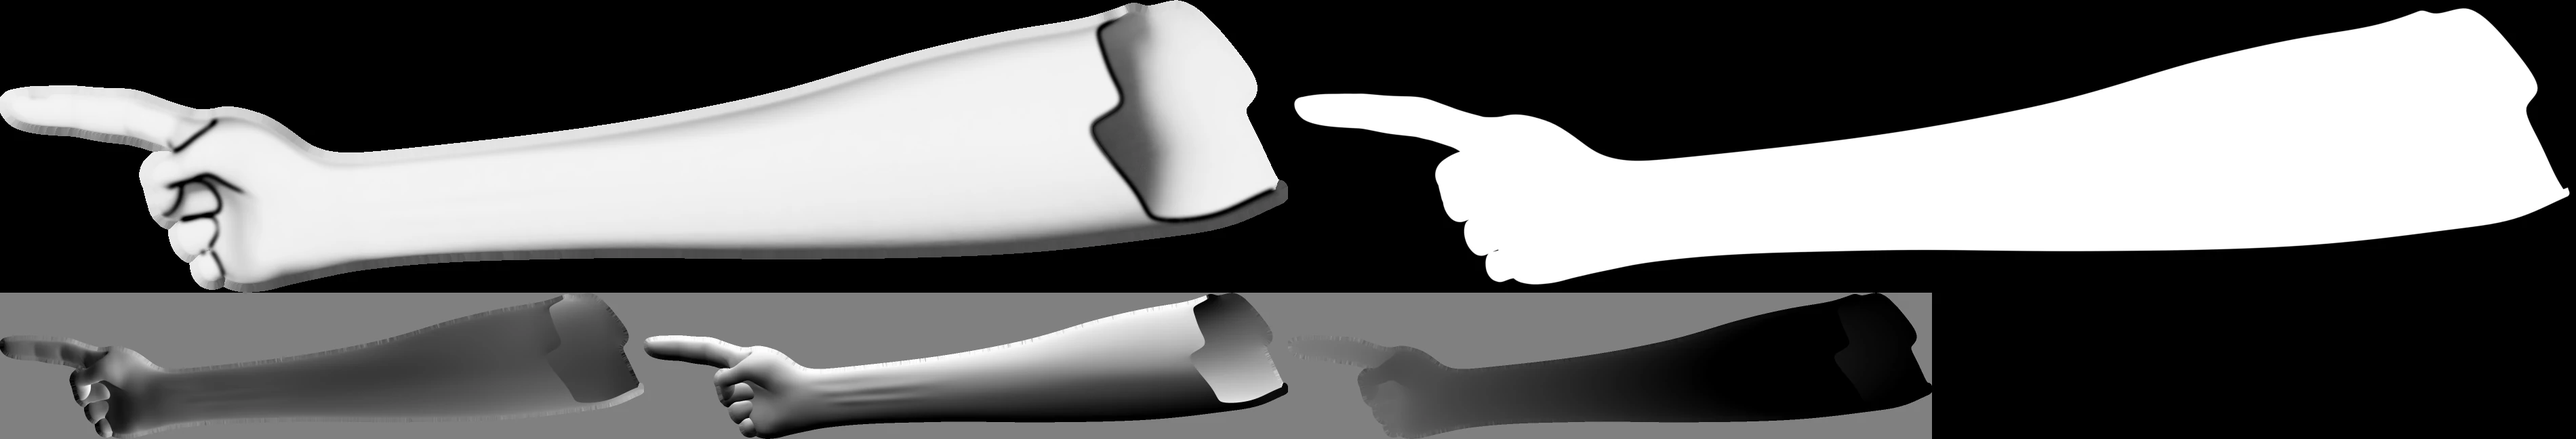
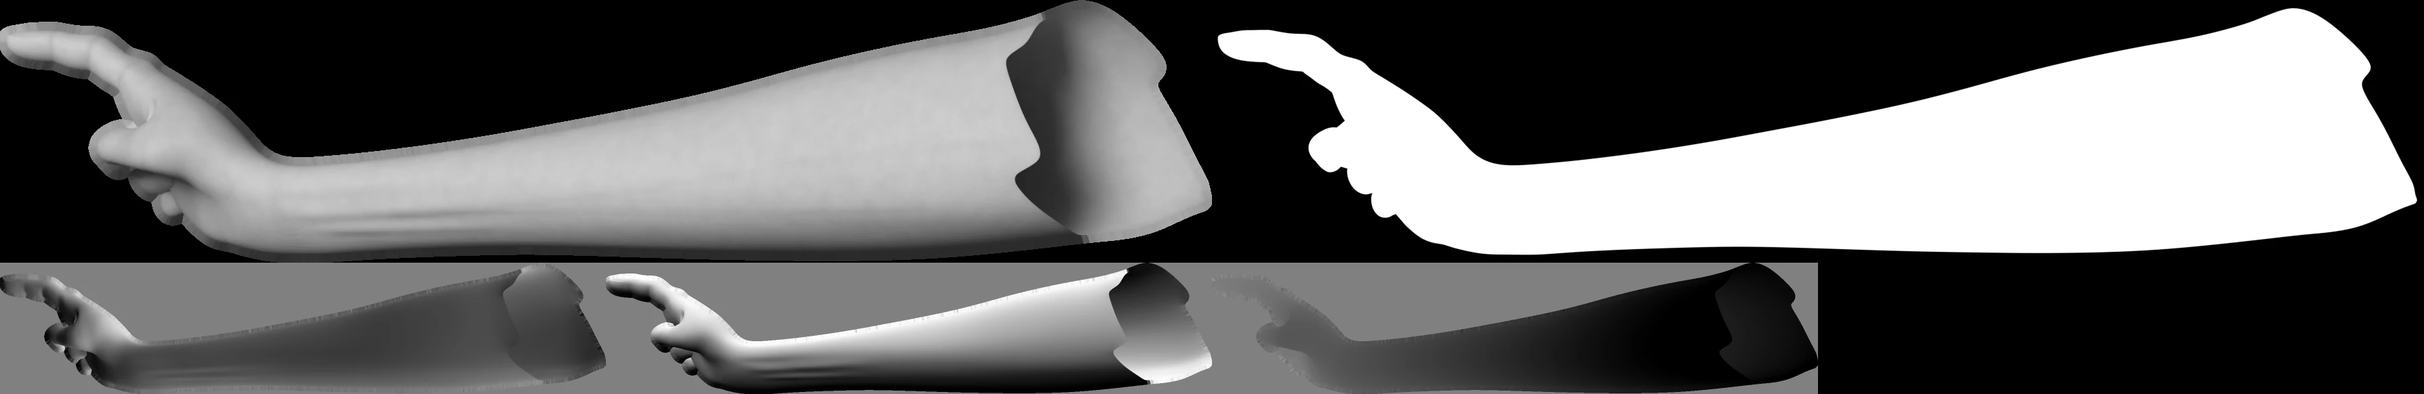
Hände: neue Zeigehand ohne Kontur (Blender), Finger über der Gehäusekante mit Kontaktschatten, Rückzug nach dem Tipp, Hochformat-Kamera mit Rand

diff --git a/src/components/landing/scenes/ende/hand.js b/src/components/landing/scenes/ende/hand.js
@@ -122,7 +122,9 @@ vec2 holdTone(vec2 C){
   if (al < .04) return vec2(0.);
   float zmm = SH(4, C) * 200. - 100.;
   float sdf = sdfRR(C, uPhone, uPR.x);
-  bool front = sdf < 4. && zmm < 1.5;
+  // Finger rechts legen sich 4 bis 8 px über die Gehäusekante: vorn, mit weichem Kontaktschatten am Gehäuse
+  bool fing = C.x > 800. && sdf < 4.;
+  bool front = (sdf < 4. && zmm < 1.5) || fing;
   float L = SH(0, C);
   L = cl(.5 + (pow(L, ${GAM.toFixed(2)}) - .5) * ${CON.toFixed(2)});
   float nx = SH(2, C) * 2. - 1.;
@@ -130,6 +132,7 @@ vec2 holdTone(vec2 C){
   float nz = sqrt(max(0., 1. - nx * nx - ny * ny));
   float lf = lightF(C);
   float v = L * (.62 + .5 * lf);
+  if (fing) v *= .5 + .5 * ss((sdf + 9.) / 11.);
   v += ${RIM.toFixed(2)} * max(0., nx * .85 + ny * .05 + nz * .15) * (.5 + .5 * L);
   if (uPR.w > 0.) {
     vec3 l = vec3(uLight.x - C.x, -(uLight.y - C.y), 170. + zmm * (300. / 71.6));
@@ -141,11 +144,13 @@ vec2 holdTone(vec2 C){
   }
   float e = ${EDW.toFixed(1)};
   float eA = min(min(SH(1, C - vec2(e, 0.)), SH(1, C + vec2(e, 0.))), min(SH(1, C - vec2(0., e)), SH(1, C + vec2(0., e))));
-  bool edge = eA < .5 && abs(sdf) >= 7.;
-  float cov = ss((al - .02) / .25) * ss((uPR.z - C.y) / 90.);
+  bool edge = eA < .5 && abs(sdf) >= 7. && !fing;
+  float cov = ss((al - .02) / .25) * ss((uPR.z - C.y) / 140.);
   float sdS = sdfRR(C, uScreen, uPR.y);
+  // Finger bleiben auf Gehäuse und Rand, nie auf dem Glas
+  if (fing && sdS < -1.) return vec2(0.);
   // weicher Übergang statt harter Kante am Glasrand: Ton und Tinte gehen über 18 px ineinander über
-  float gk = front ? ss(-sdS / 18.) : 0.;
+  float gk = front ? ss(-sdS / 10.) : 0.;
   float vo = v;
   if (edge) vo = max(vo, ${EDV.toFixed(1)} * lf * al);
   float tone = vo * cov;
@@ -165,7 +170,7 @@ vec2 pointTone(vec2 C, bool full){
   if (uPS.y <= 0.) return vec2(0.);
   vec2 d = C - uTipU.xy;
   float dist = length(d);
-  float gk = ss(-sdfRR(C, uScreen, uPR.y) / 18.);
+  float gk = ss(-sdfRR(C, uScreen, uPR.y) / 10.);
   // auf dem Glas bleibt die Hand bis zum Handgelenk deckend, der Arm läuft danach schneller aus
   float fade = mix(cl(1. - (dist - 300.) / 420.), cl(1. - (dist - 300.) / 140.), gk);
   if (fade <= 0.) return vec2(0.);
@@ -181,12 +186,10 @@ vec2 pointTone(vec2 C, bool full){
   float v = L * (.62 + .5 * lf);
   float e = ${EDW.toFixed(1)} / uPS.x;
   float eA = min(min(SP(1, ab - vec2(e, 0.)), SP(1, ab + vec2(e, 0.))), min(SP(1, ab - vec2(0., e)), SP(1, ab + vec2(0., e))));
-  bool edge = eA < .5;
+  // keine Kontur: die Hand ist reine Fläche aus Ton, am Rand nur die weiche Silhouette
   float vo = v;
-  if (edge) vo = max(vo, ${EDV.toFixed(1)} * lf * al);
   float tn = .04 + .86 * pow(cl(v), 1.35);
-  float vd = pow(1. - tn, .45);
-  if (edge) vd = max(vd, .95);
+  float vd = pow(1. - tn, .7);
   return vec2(mix(vo, vd, gk) * cov, cov);
 }
 
@@ -226,7 +229,7 @@ vec2 pSprite(vec2 S){
 float pointSil(vec2 S){
   if (uPS.y <= 0.) return 0.;
   float dist = length(S - uTipU.xy);
-  float gk = ss(-sdfRR(S, uScreen, uPR.y) / 18.);
+  float gk = ss(-sdfRR(S, uScreen, uPR.y) / 10.);
   float fade = mix(cl(1. - (dist - 300.) / 420.), cl(1. - (dist - 300.) / 140.), gk);
   if (fade <= 0.) return 0.;
   vec2 ab = pSprite(S);
@@ -259,7 +262,7 @@ void main(){
   ivec2 tc = cell - uCell0;
   float tone = 0.;
   if (tc.x >= 0 && tc.y >= 0 && tc.x < uCellN.x && tc.y < uCellN.y) tone = texelFetch(uTone, tc, 0).r;
-  float gk = uFront == 1 ? ss(-sdfRR(S, uScreen, uPR.y) / 18.) : 0.;
+  float gk = uFront == 1 ? ss(-sdfRR(S, uScreen, uPR.y) / 10.) : 0.;
   float ink = mix(${INK}, ${INK_DARK}, gk);
   bool pt = uFront == 1 && uPS.y > 0.;
   if (tone <= 0. && uRing.z <= 0. && !pt) { o = vec4(0.); return; }
@@ -294,7 +297,7 @@ void main(){
     sh = s0 / 5. * gk * (.15 + .1 * uRing.w);
   }
   float aOut = c + base * (1. - c);
-  vec3 col = vec3(ink * c + .84 * base * (1. - c));
+  vec3 col = vec3(ink * c + .76 * base * (1. - c));
   float sa = sh * (1. - aOut);
   o = vec4(col, aOut + sa);
 }
@@ -1004,7 +1007,9 @@ function drawIn(back, front, c, cam) {
 		}
 	}
 	const pend = st.pending;
-	const folgt = c.endOn && !touch && c.m.in && aufGlas(mx, my) && now - (c.m.moveT ?? -9) < 1.4;
+	// Nach dem Kontakt zieht sich die Hand nach 0,35 s zurück, damit das Ergebnis des Tipps zu sehen ist
+	const zurueck = !pend && st.contactT > 0 && now - st.contactT > 0.35 && now - st.contactT < 1.6;
+	const folgt = !zurueck && c.endOn && !touch && c.m.in && aufGlas(mx, my) && now - (c.m.moveT ?? -9) < 1.4;
 	let tg = st.park;
 	let k = 7;
 	if (pend) {
@@ -1057,7 +1062,7 @@ function drawIn(back, front, c, cam) {
 		// Die Spitze steht exakt am Ziel, beim Druck geht sie leicht in Armrichtung
 		tip: { x: Math.round((ht.x + ux * push * 4) * 2) / 2, y: Math.round((ht.y + uy * push * 4) * 2) / 2 },
 		u: { x: ux, y: uy },
-		sc: PS * (1 - push * 0.06),
+		sc: PS * (W <= 768 ? 0.75 : 1) * (1 - push * 0.06),
 		// Touch: keine gezeichnete Zeigehand, dort tippt der echte Finger
 		pa: qa.noPoint || touch ? 0 : 1,
 		push: Math.round(push * 20) / 20,

diff --git a/src/components/landing/scenes/ende/kamera.js b/src/components/landing/scenes/ende/kamera.js
@@ -13,7 +13,8 @@ export const istHoch = (W, H) => W / H <= 1 || W < 700;
 // Finger rechts laufen aus dem Bild (natürlicher Anschnitt), der Unterarm wird unten angeschnitten.
 const PHONE_X = 650;
 const PHONE_W = 300;
-const DAUMEN = 66; // Daumen ragt so weit links über das Handy
+const SPAN0 = 584; // linke Kante des Daumens im Ende-Raum
+const SPAN1 = 998; // rechte Kante der Fingerkuppen
 const PHONE_TOP = 90;
 const PHONE_H = 620;
 
@@ -44,9 +45,12 @@ export function titelPlatz(W, _safeH) {
 export function kamera(W, H, safeH, _mode) {
 	if (!istHoch(W, H)) return fitBox(W, safeH, 1280, 800, 1.25);
 	const top = titelPlatz(W, safeH);
-	const f = Math.max(0.2, Math.min((0.78 * W) / PHONE_W, (H - top - 12) / PHONE_H, 1.25));
-	// Handy links so weit eingerückt, dass der Daumen ganz im Bild bleibt (nie mehr als mittig minus 8)
-	const links = Math.max(DAUMEN * f + 4, (W - PHONE_W * f) / 2 - 8);
+	// Daumen links (x 584) und Fingerkuppen rechts (x 998) bleiben mit mindestens 8 px Rand im Bild
+	const f = Math.max(
+		0.2,
+		Math.min((0.78 * W) / PHONE_W, (H - top - 12) / PHONE_H, 1.25, (W - 16) / (SPAN1 - SPAN0)),
+	);
+	const links = Math.max(8, (W - (SPAN1 - SPAN0) * f) / 2) + (PHONE_X - SPAN0) * f;
 	return {
 		f,
 		ox: links - PHONE_X * f,
